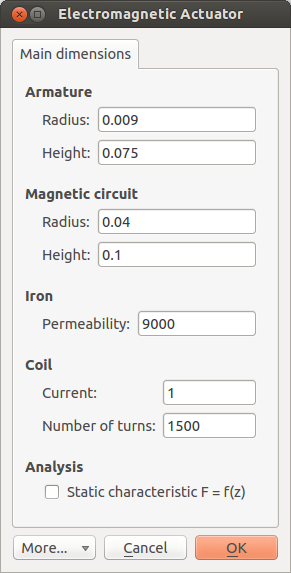
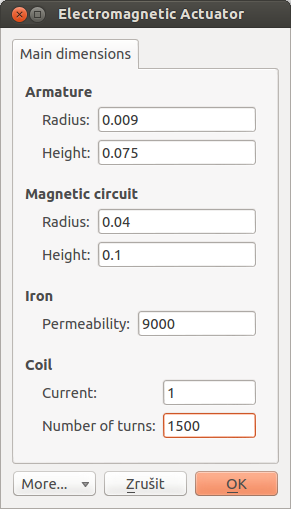
static characteristic removed

diff --git a/resources/examples/Device Design/Electromagnetic Actuator.py b/resources/examples/Device Design/Electromagnetic Actuator.py
@@ -55,49 +55,6 @@ class MagneticModel:
 
     a2d.view.zoom_best_fit()
 
-  def move_core(self, dz):
-    self.geometry.select_edges([14, 15, 16, 17])
-    self.geometry.move_selection(0, dz, False)
-    self.geometry.select_labels([3])
-    self.geometry.move_selection(0, dz, False)
-
-  def static_characteristic(self, steps):
-    dz = Harm / (steps - 1)
-
-    zWm = []
-    Wm = []
-    for i in range(steps):
-      if i > 0:
-        self.move_core(-dz)
-
-      self.problem.solve()
-      a2d.view.zoom_best_fit()
-      zWm.append(i*dz)
-      Wm.append(self.magnetic.volume_integrals([])["Wm"])
-
-    zFm = []
-    Fm = []
-    for i in range(steps - 1):
-      Fm.append((Wm[i] - Wm[i+1]) / dz)
-      zFm.append(zWm[i] + dz / 2)
-
-    import pylab as pl
-    pl.figure()
-    pl.subplot(2,1,1)
-    pl.title("Magnetic energy")
-    pl.plot(zWm, Wm)
-    pl.grid(True)
-    pl.xlabel("z (m)")
-    pl.ylabel("Wm (J)")
-
-    pl.subplot(2,1,2)
-    pl.plot(zFm, Fm)
-    pl.title("Force")
-    pl.grid(True)
-    pl.xlabel("z (m)")
-    pl.ylabel("F (N)")
-    pl.show()
-
 Rarm = {{txtArmatureRadius_text}}
 Harm = {{txtArmatureHeight_text}}
 Rcir = {{txtCircuitRadius_text}}
@@ -121,6 +78,3 @@ Next = 1500
 """
 
 magnetic_model = MagneticModel(Rarm, Harm, Rcir, Hcir, delta, mur_iron, Iext, Next)
-
-if ({{chkStaticCharacteristic_checked}}):
-  magnetic_model.static_characteristic(10)
